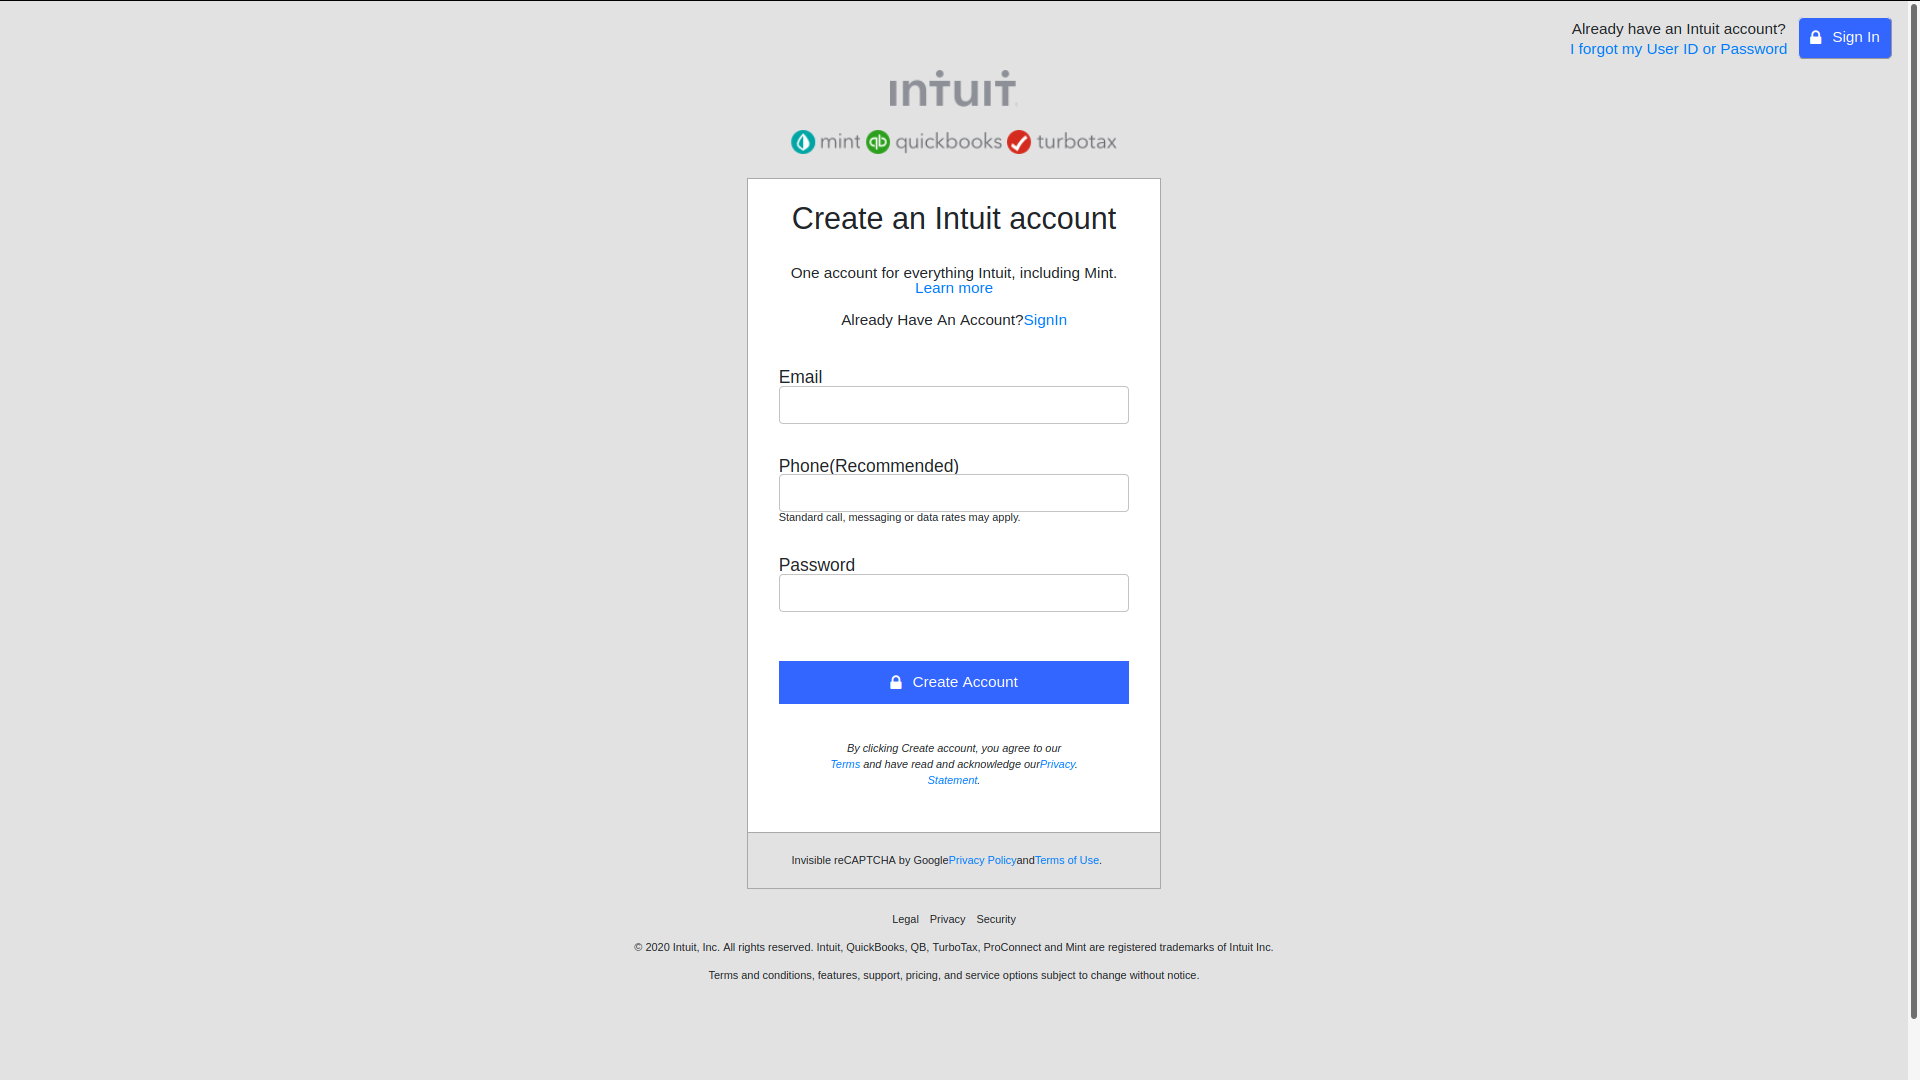
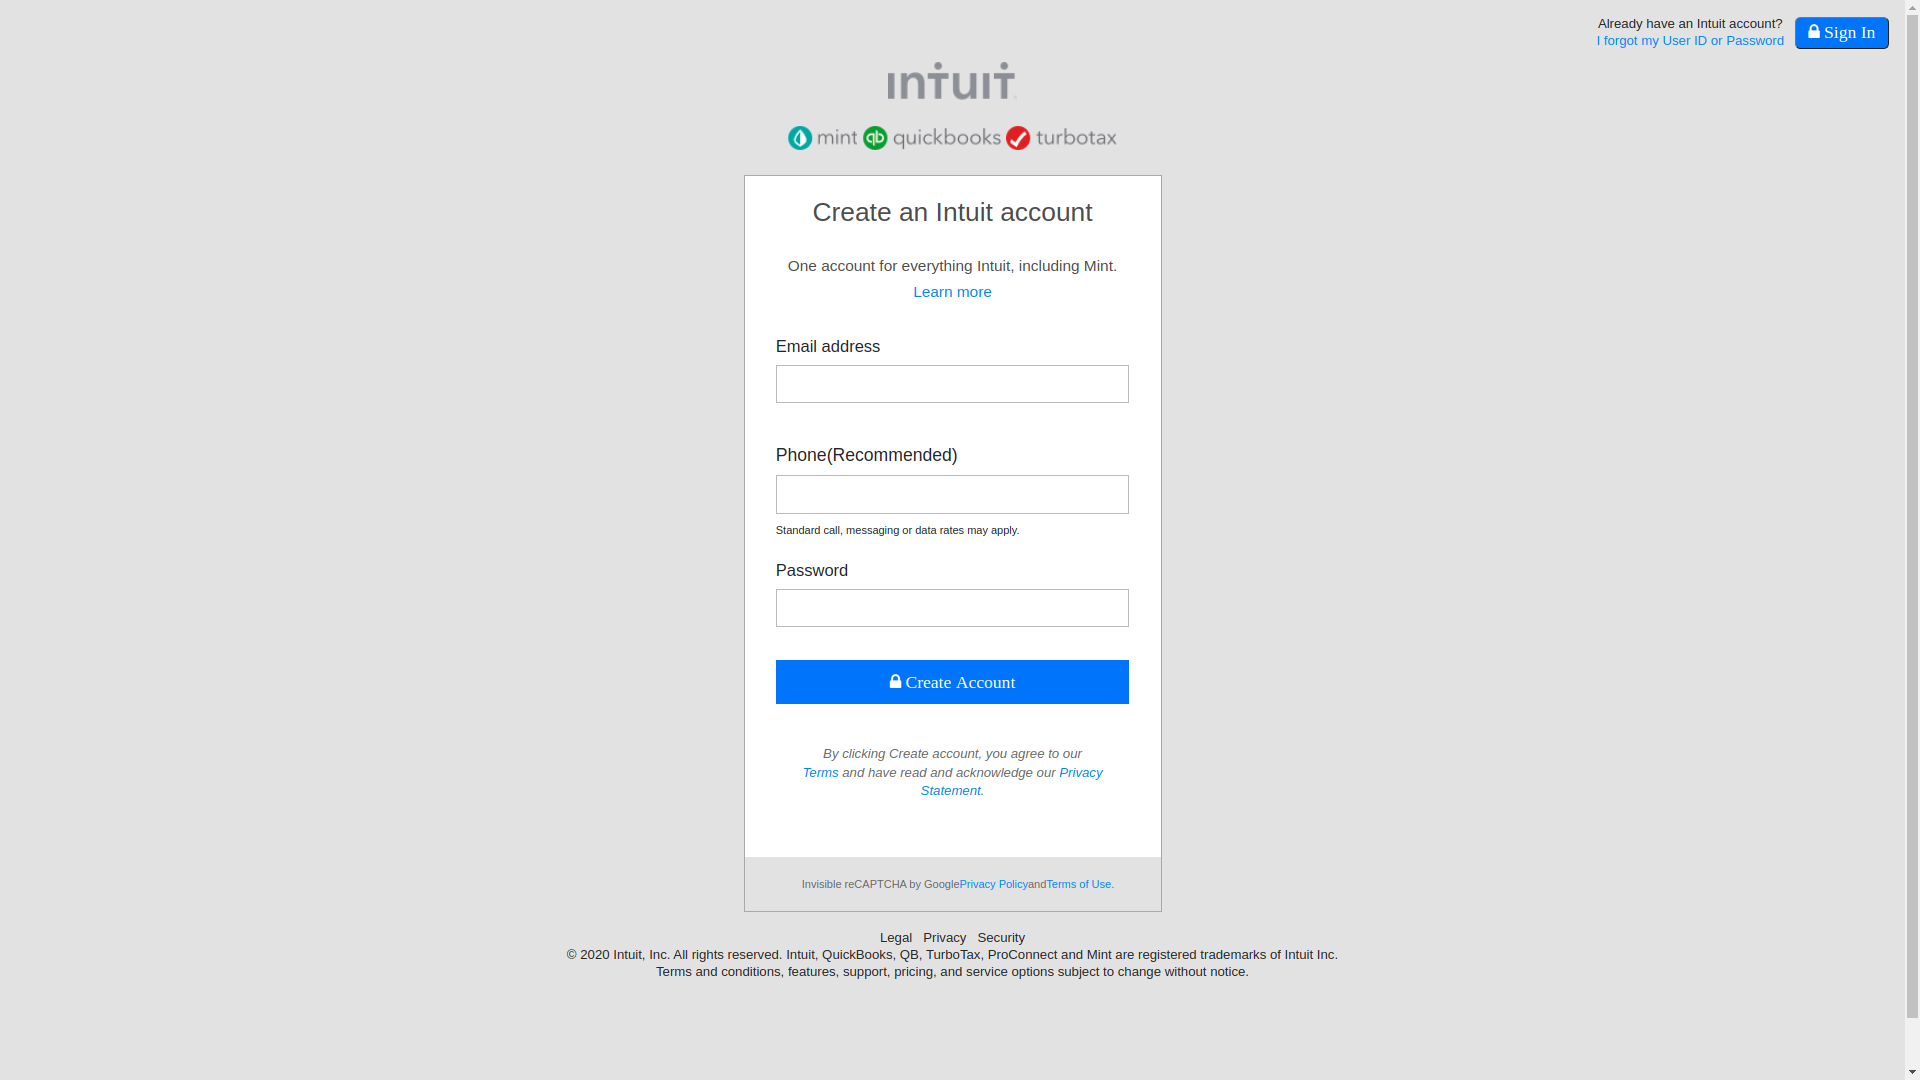
Repairs have been made

diff --git a/styles.css b/styles.css
@@ -137,14 +137,14 @@ table {
 .top-nav1 {
   display: flex;
   flex-direction: column;
-  margin: 0;
   padding: 0;
 }
 
 .top-nav1 a,
 p {
-  font-size: 10px;
+  font-size: 12px;
   margin-right: 10px;
+  margin-bottom: 4px;
 }
 
 .top-nav-button {
@@ -160,7 +160,7 @@ p {
 
 .nav-button {
   display: flex;
-  margin: 10px;
+  margin: 5px;
   flex-direction: row;
 }
 
@@ -184,7 +184,7 @@ form {
   align-items: center;
   background-color: white;
   width: 380px;
-  height: 600px;
+  height: 620px;
   margin: 10px 10px 0 10px;
   border: solid;
   border-bottom: transparent;
@@ -193,10 +193,14 @@ form {
   box-sizing: border-box;
 }
 
-form h3 {
+form h4 {
   margin: 5%;
+  color: rgb(77, 76, 76);
 }
-
+form h6 {
+  font-size:14px;
+  color: rgb(77, 76, 76);
+}
 .form-head1 {
   margin: 2%;
   width: 85%;
@@ -225,7 +229,7 @@ form h3 {
 .form-button {
   display: flex;
   justify-content: space-around;
-  margin-top: 15px;
+  margin-top: 5px;
   margin-bottom: 15px;
   width: 100%;
   background-color: rgb(51, 102, 255);
@@ -247,32 +251,51 @@ form h3 {
 
 .label-section1 {
   margin-top: 10px;
-  margin-bottom: 15px;
+  margin-bottom: 10px;
 }
 .label-section1 p {
   font-size: 15px;
   margin-bottom: 10px;
 }
+.label-section1 input {
+  border-width: 1px;
+  border: 1px solid;
+  border-color: rgb(187, 187, 187);;
+}
+::placeholder {
+  color:rgb(187, 187, 187);
+}
+
 .label-section2 {
-  margin-top: 15px;
-  margin-bottom: 15px;
+  margin-top: 10px;
+  margin-bottom: 10px;
 }
 .label-section2 label{
-  margin-top: 15px;
-  margin-bottom: 15px;
+  margin-top: 10px;
+  margin-bottom: 10px;
   width: 100%;
 }
 .label-section2 div {
-  font-size: 15px;
+  margin-top: 10px;
   margin-bottom: 10px;
 }
+.label-section2 input {
+  border-width: 1px;
+  border: 1px solid;
+  border-color: rgb(187, 187, 187);;
+}
 .label-section3 {
-  margin-top: 15px;
-  margin-bottom: 15px;
+  margin-top: 10px;
+  margin-bottom: 10px;
 }
 .label-section3 p {
   font-size: 15px;
   margin-bottom: 10px;
+}
+.label-section3 input {
+  border-width: 1px;
+  border: 1px solid;
+  border-color: rgb(187, 187, 187);;
 }
 .label-section2-p{
   font-size: 15px;
@@ -289,27 +312,32 @@ form h3 {
   border-width: 1px;
   border-color: darkgray;
   width: 380px;
+  height: 50px;
   border-top: transparent;
-  padding: 1.8em;
   font-size: 0.7em;
+  justify-content: center;
+
 }
 
 .form-bottom p {
   display: flex;
   margin-left: 20px;
   font-size: 10px;
+  color: dimgrey;
+  margin-top: 20px;
 }
 
 .form-button1 {
   font-style: italic;
   width: 85%;
-  margin-top: 5px;
-  margin-bottom: 15px;
+  color: dimgrey;
+  margin: 20px;;
 }
 
 .form-button1 p {
-  font-size: 10;
-  margin-top: 5px;
+  font-size: 12px;
+  padding:1px;
+  margin:3px;
 }
 
 footer {
@@ -323,13 +351,16 @@ footer {
   display: flex;
   flex-direction: row;
   justify-content: center;
-  margin: 8px;
 }
 
 .footer-div p {
-  font-size: 10px;
+  font-size: 12px;
   margin-left: 5px;
   margin-right: 5px;
+  margin-top:2px; 
+  margin-bottom: 2px;
+  color: rgb(38, 38, 38)
+  ;
 }
 
 input {

diff --git a/index.html b/index.html
@@ -41,22 +41,22 @@
     </section>
 
     <form>
-      <h3>Create an Intuit account</h3>
-      <p class="form-head1">One account for everything Intuit, including Mint.</p>
-      <p><a href="">Learn more</a></p>
+      <h4>Create an Intuit account</h4>
+      <h6 class="form-head1">One account for everything Intuit, including Mint.</h6>
+      <h6><a href="">Learn more</a></h6>
 
       <div class="label-section">
         <label class="label-section1">
-          <p>Email address</p><input type="Email">
+          <p>Email address</p><input type="email" required="requied">
         </label>
         <div class="label-section2">
           <label>
-            <div>Phone(Recommended)</div><input type="tel">
+            <div>Phone(Recommended)</div><input type="tel" required="requied">
           </label>
           <p class="label-section-p">Standard call, messaging or data rates may apply.</p>
         </div>
         <label class="label-section3">
-          <p>Password</p><input type="password">
+          <p>Password</p><input type="password" required="requied">
         </label>
       </div>
 
@@ -67,7 +67,7 @@
       </button>
       <div class="form-button1">
         <p>By clicking Create account, you agree to our</p>
-        <p><a href="">Terms</a> and have read and acknowledge our<a href="">Privacy</a>.</p>
+        <p><a href="">Terms</a> and have read and acknowledge our<a href=""> Privacy</a></p>
         <p><a href="">Statement</a>.</p>
       </div>
     </form>
